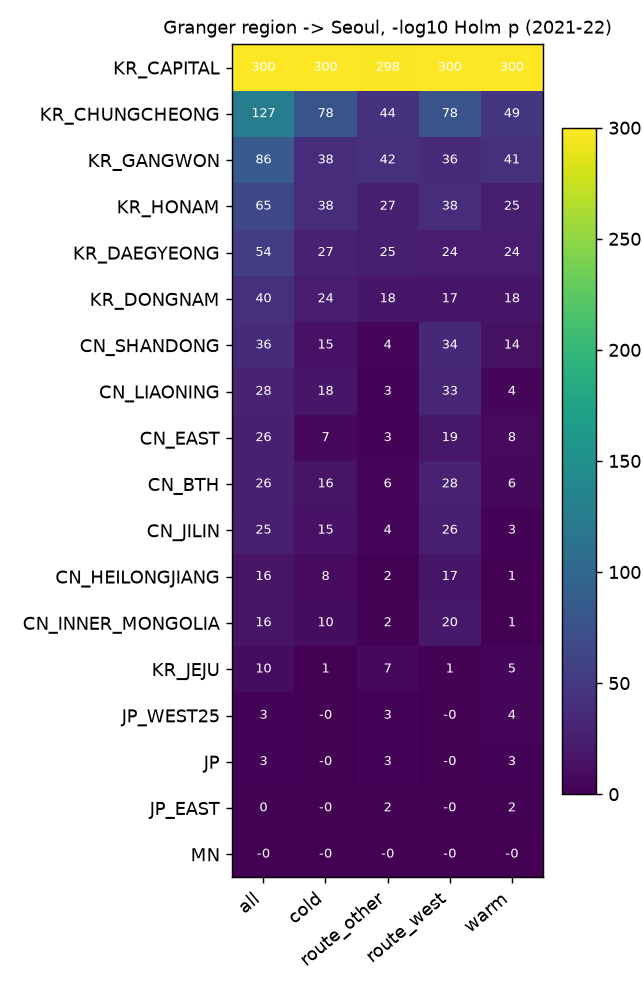
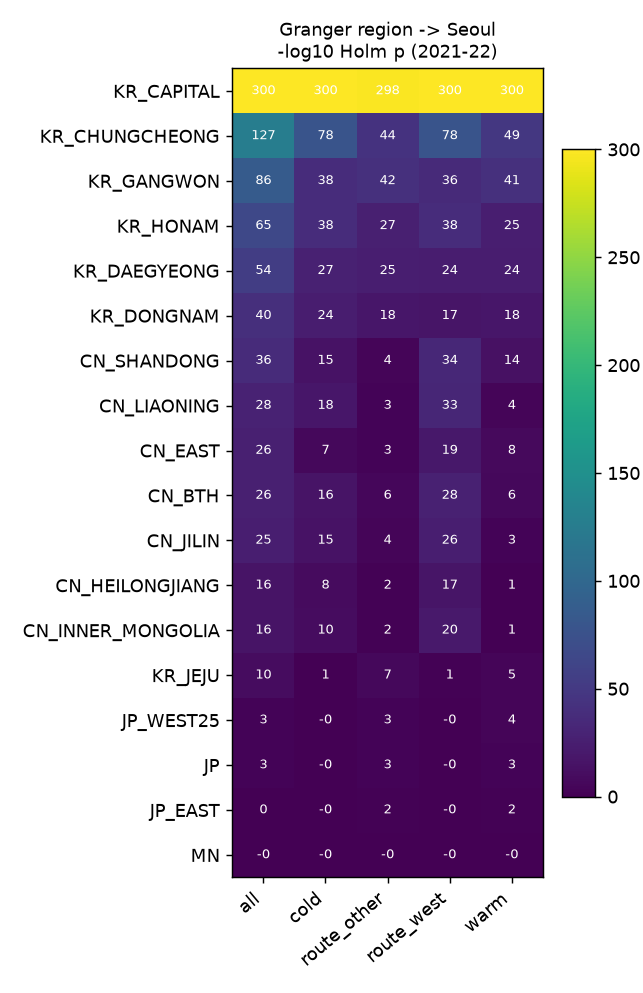
A figures: readable titles and colour scale

diff --git a/A_sarimax/asarimax.py b/A_sarimax/asarimax.py
@@ -271,12 +271,12 @@ def figures():
     lc = pd.read_csv(OUT / "lag_choice.csv")
     imp = lc.assign(v=100 * (lc.val_rmse_base - lc.val_rmse) / lc.val_rmse_base).pivot(index="region", columns="horizon", values="v")
     heat(imp.sort_values(6, ascending=False).rename(columns=lambda h: f"{h} h"),
-         "A SARIMAX: RMSE improvement over BASE, % (2023; lag chosen on 2023)", OUT / "a_region_improvement.png", fmt="{:.1f}", cmap="RdBu")
+         "A: RMSE gain vs BASE, %\n(2023, lag picked on 2023)", OUT / "a_region_improvement.png", fmt="{:.1f}", cmap="Reds")
     lag = lc.pivot(index="region", columns="horizon", values="lag").loc[imp.sort_values(6, ascending=False).index]
     lag.to_csv(OUT / "a_lag_table.csv")
     g = pd.read_csv(OUT / "granger.csv")
     p = g.assign(v=-np.log10(g.p_holm.clip(lower=1e-300))).pivot(index="region", columns="subset", values="v")
-    heat(p.loc[p["all"].sort_values(ascending=False).index], "Granger region -> Seoul, -log10 Holm p (2021-22)",
+    heat(p.loc[p["all"].sort_values(ascending=False).index], "Granger region -> Seoul\n-log10 Holm p (2021-22)",
          OUT / "a_granger.png", fmt="{:.0f}", cmap="viridis")
     print("figures ->", OUT)
 
